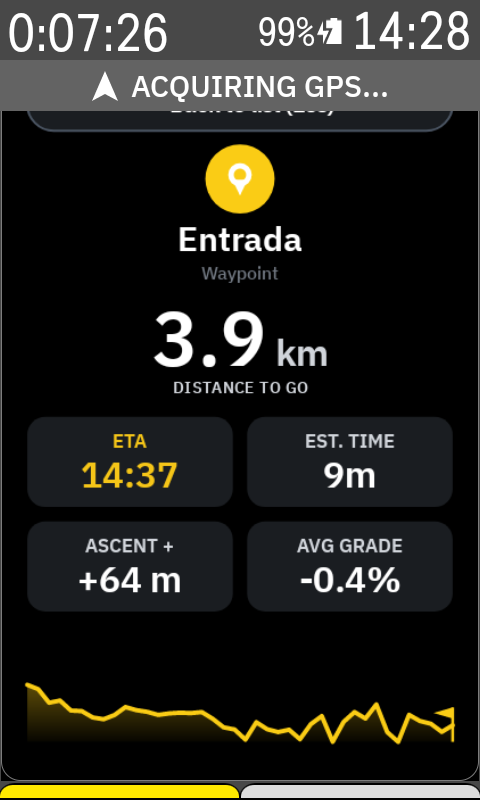
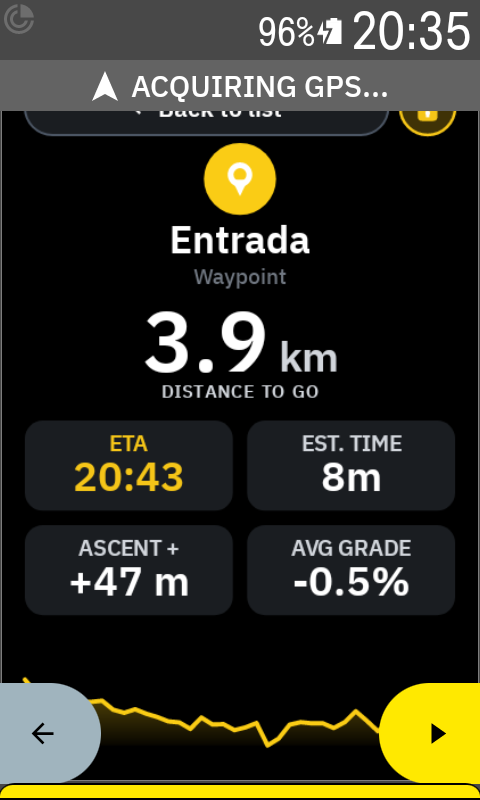
chore(release): prepare v1.0.1 release

diff --git a/README.md b/README.md
@@ -56,7 +56,7 @@ https://github.com/apopovsky/KarooCueSheetPlus/releases/latest
 ### Via ADB
 
 ```bash
-adb install -r KarooCueSheetPlus-v1.0.0-release.apk
+adb install -r KarooCueSheetPlus-v1.0.1-release.apk
 ```
 
 ---
